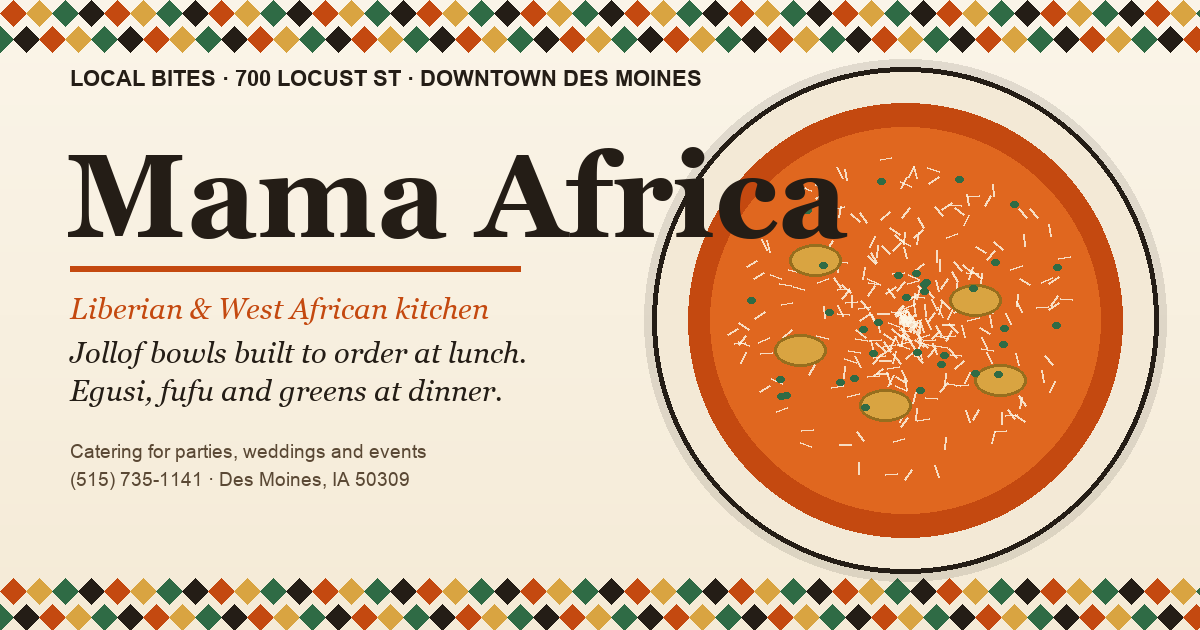
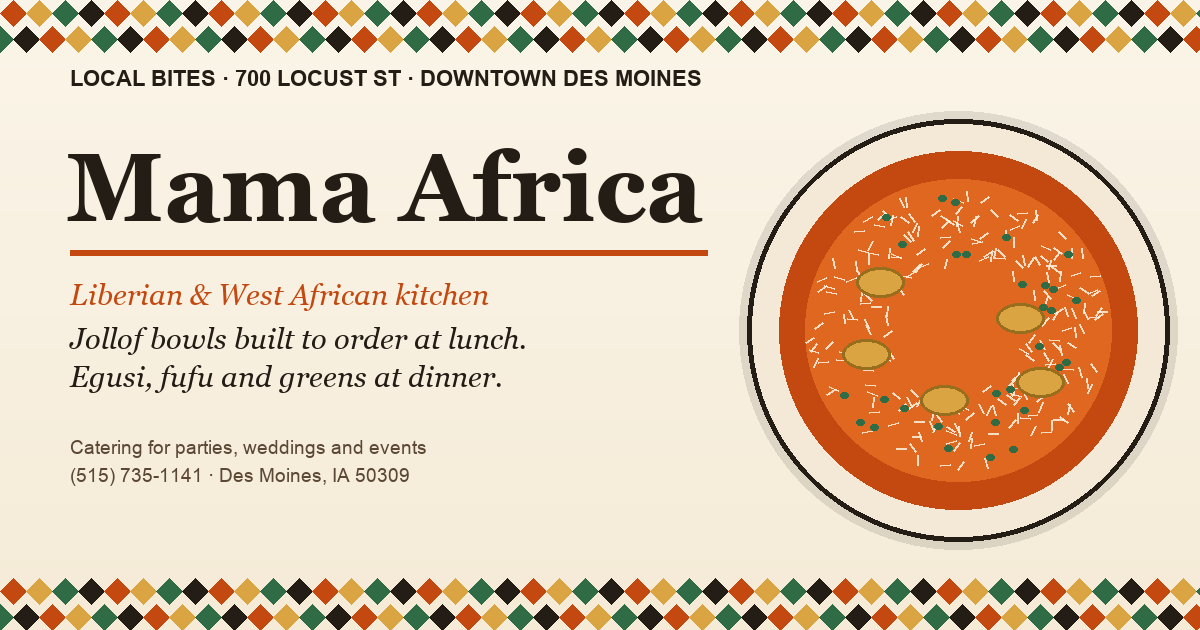
og.png: fix title/bowl collision, edge clip, grain scribble

Changed region(s): [[0.0617, 0.0905, 0.9867, 0.9349], [0.0617, 0.6937, 0.37, 0.7841]]

diff --git a/make_og.py b/make_og.py
@@ -44,41 +44,47 @@ chevron_band(0, 26, 255)
 chevron_band(H - 52, 26, 255)
 
 # overhead jollof bowl on the right: cream bowl, jollof disc, rice-grain dashes
-cx, cy, R = 905, 320, 235
-d.ellipse((cx - R - 26, cy - R - 26, cx + R + 26, cy + R + 26), fill=INK + (30,))          # soft shadow
-d.ellipse((cx - R - 18, cy - R - 18, cx + R + 18, cy + R + 18), fill=PAPER2)                # bowl rim
-d.ellipse((cx - R - 18, cy - R - 18, cx + R + 18, cy + R + 18), outline=INK, width=5)
-d.ellipse((cx - R + 18, cy - R + 18, cx + R - 18, cy + R - 18), fill=JOLLOF)                # jollof
-d.ellipse((cx - R + 40, cy - R + 42, cx + R - 40, cy + R - 42), fill=JOLLOF2)               # lighter center
-# rice grains as short cream dashes
-for _ in range(300):
-    a = random.uniform(0, 6.283); r = random.uniform(0, R - 55)
-    x, y = cx + r * 0.97 * __import__("math").cos(a), cy + r * 0.9 * __import__("math").sin(a)
+import math
+cx, cy, R = 958, 330, 195
+d.ellipse((cx - R - 24, cy - R - 24, cx + R + 24, cy + R + 24), fill=INK + (30,))          # soft shadow
+d.ellipse((cx - R - 16, cy - R - 16, cx + R + 16, cy + R + 16), fill=PAPER2)                # bowl rim
+d.ellipse((cx - R - 16, cy - R - 16, cx + R + 16, cy + R + 16), outline=INK, width=5)
+d.ellipse((cx - R + 16, cy - R + 16, cx + R - 16, cy + R - 16), fill=JOLLOF)                # jollof
+d.ellipse((cx - R + 42, cy - R + 44, cx + R - 42, cy + R - 44), fill=JOLLOF2)               # lighter center
+# rice grains as short cream dashes — area-uniform annulus sampling keeps the center clean
+for _ in range(240):
+    a = random.uniform(0, 6.283)
+    r = (R - 48) * math.sqrt(random.uniform(0.18, 1.0)) + 12
+    x, y = cx + r * 0.94 * math.cos(a), cy + r * 0.87 * math.sin(a)
     a2 = random.uniform(0, 3.14)
-    dx, dy = 6 * __import__("math").cos(a2), 6 * __import__("math").sin(a2)
+    dx, dy = 5 * math.cos(a2), 5 * math.sin(a2)
     d.line([(x - dx, y - dy), (x + dx, y + dy)], fill=(252, 246, 230, 210), width=2)
 # plantain slices: gold arcs on the rice
-for (px, py) in [(cx - 90, cy - 60), (cx + 70, cy - 20), (cx - 20, cy + 85), (cx + 95, cy + 60), (cx - 105, cy + 30)]:
-    d.ellipse((px - 26, py - 16, px + 26, py + 16), fill=GOLD, outline=(150, 110, 30), width=3)
+for (px, py) in [(cx - 78, cy - 48), (cx + 62, cy - 12), (cx - 14, cy + 70), (cx + 82, cy + 52), (cx - 92, cy + 24)]:
+    d.ellipse((px - 24, py - 15, px + 24, py + 15), fill=GOLD, outline=(150, 110, 30), width=3)
 # green flecks (peppers/onions)
-for _ in range(34):
-    a = random.uniform(0, 6.283); r = random.uniform(20, R - 60)
-    x, y = cx + r * 0.95 * __import__("math").cos(a), cy + r * 0.88 * __import__("math").sin(a)
+for _ in range(30):
+    a = random.uniform(0, 6.283)
+    r = (R - 55) * math.sqrt(random.uniform(0.25, 1.0)) + 14
+    x, y = cx + r * 0.93 * math.cos(a), cy + r * 0.86 * math.sin(a)
     d.ellipse((x - 4, y - 3, x + 4, y + 3), fill=PALM)
 
 f_eye = font(["Arial Bold.ttf", "Helvetica.ttc"], 22)
-f_title = font(["Georgia Bold.ttf", "Georgia Italic.ttf", "Georgia.ttf"], 118)
+f_title = font(["Georgia Bold.ttf", "Georgia Italic.ttf", "Georgia.ttf"], 96)
 f_sub = font(["Georgia Italic.ttf", "Georgia.ttf"], 29)
 f_nap = font(["Helvetica.ttc", "Arial.ttf"], 19)
 
+TITLE = "Mama Africa"
+twd = d.textlength(TITLE, font=f_title)
+assert twd < 700, f"title width {twd} would collide with the bowl"
 d.text((70, 66), "LOCAL BITES · 700 LOCUST ST · DOWNTOWN DES MOINES", font=f_eye, fill=INK)
-d.text((66, 128), "Mama Africa", font=f_title, fill=INK)
-d.line([(70, 268), (520, 268)], fill=JOLLOF, width=6)
-d.text((70, 292), "Liberian & West African kitchen", font=f_sub, fill=JOLLOF)
-d.text((70, 336), "Jollof bowls built to order at lunch.", font=f_sub, fill=INK)
-d.text((70, 374), "Egusi, fufu and greens at dinner.", font=f_sub, fill=INK)
-d.text((70, 440), "Catering for parties, weddings and events", font=f_nap, fill=(90, 72, 52))
-d.text((70, 468), "(515) 735-1141 · Des Moines, IA 50309", font=f_nap, fill=(90, 72, 52))
+d.text((66, 132), TITLE, font=f_title, fill=INK)
+d.line([(70, 252), (70 + twd, 252)], fill=JOLLOF, width=6)
+d.text((70, 278), "Liberian & West African kitchen", font=f_sub, fill=JOLLOF)
+d.text((70, 322), "Jollof bowls built to order at lunch.", font=f_sub, fill=INK)
+d.text((70, 360), "Egusi, fufu and greens at dinner.", font=f_sub, fill=INK)
+d.text((70, 436), "Catering for parties, weddings and events", font=f_nap, fill=(90, 72, 52))
+d.text((70, 464), "(515) 735-1141 · Des Moines, IA 50309", font=f_nap, fill=(90, 72, 52))
 
 img.save(OUT, "PNG", optimize=True)
 print("wrote", OUT, os.path.getsize(OUT), "bytes")
